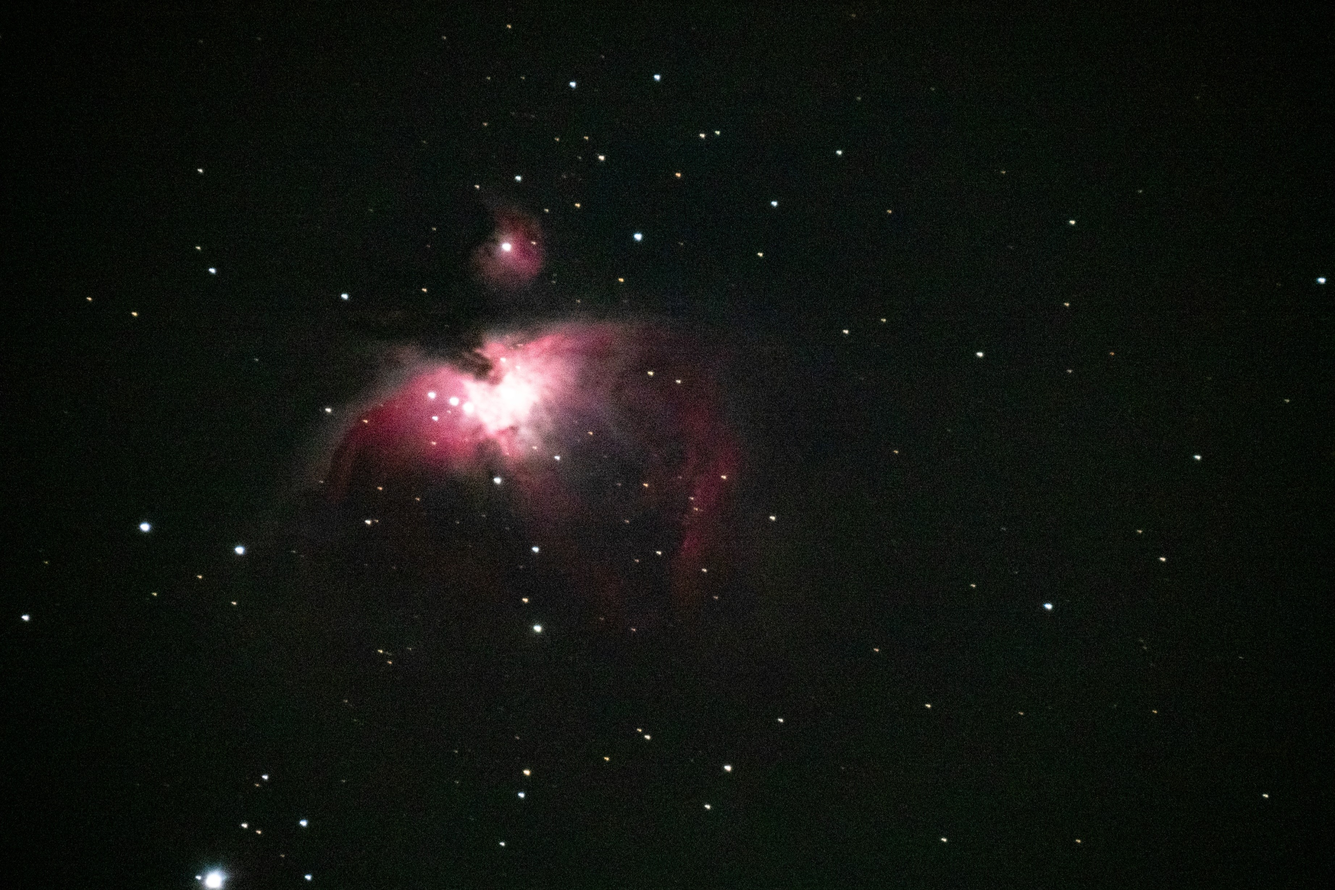
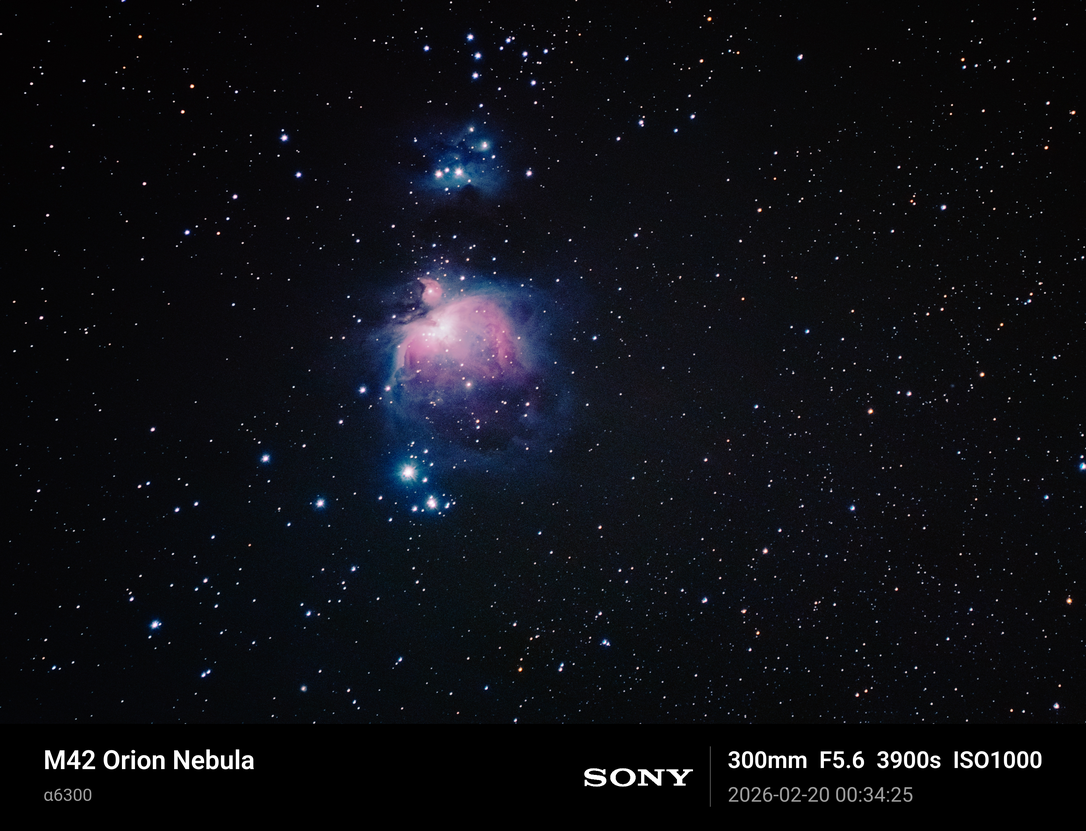
更新信息

diff --git a/pages/beyond/beyond.html b/pages/beyond/beyond.html
@@ -105,11 +105,14 @@
                     </p>
                 </article>
                 <article class="col-6 col-12-xsmall work-item" data-images='[
+                                "images/photos/Geminids Meteor.jpg",
 								"images/photos/Orion.JPG",
+                                "images/photos/Pleiades.JPG",
 								"images/photos/Milkway_Shandong.JPG",
-								"images/photos/Milkyway_Petra.JPG"]'>
+								"images/photos/Milkyway_Petra.JPG"
+                                ]'>
                     <a href="images/photos/Milkyway_Petra.JPG" class="image fit thumb"><img
-                            src="images/photos/Orion.JPG" alt="" /></a>
+                            src="images/photos/Orionf.JPG" alt="" /></a>
                     <h3>🔭Astrophotography</h3>
                     <p>To photograph stars, I once saved up carefully to buy a super-telephoto camera(<i>Nikon
                             P-1000</i>)—only to realize later that what I really needed was a large sensor.</p>
